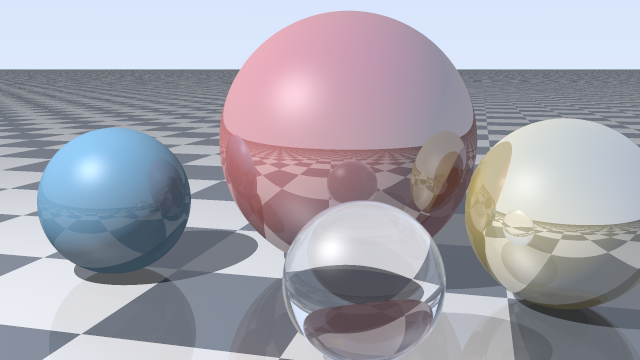
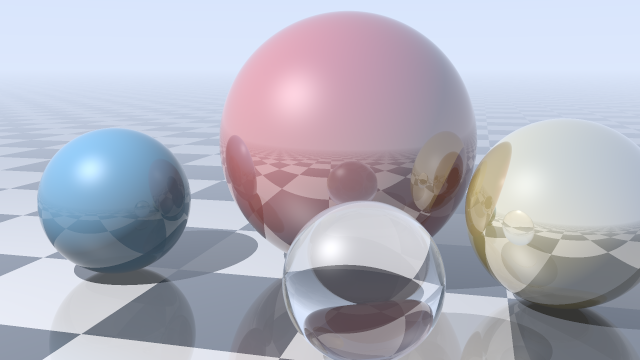
Make reflections stronger at a glancing angle, as on any real surface
The shiny spheres and the floor reflected a fixed share of the light at every angle. Schlick's approximation, already used for the glass, is now a shared function, and each surface's reflect value is its share head on, rising towards all of it at a grazing angle. The far floor now fades into the reflected sky and the spheres' edges turn to mirror, with no extra rays.

The test checks a mirror sphere seen dead centre and near its rim against the exact Schlick share, plus one value worked by hand, which was the only line that caught the fifth power changed to a fourth. Keeping the fixed share also fails it. The README image is re-rendered.

diff --git a/test_raytracer.py b/test_raytracer.py
@@ -112,15 +112,33 @@ def main():
     rt.SCENE.remove(second)
     assert abs(twice - 0.36) < 1e-9, twice
 
-    # A black mirror sphere lit from straight behind, seen dead centre: eye and light point exactly
-    # opposite, which once crashed the highlight. It shows only half the sky straight behind the eye.
+    # Fresnel: the head-on share at a right angle, all of it at a grazing one, and more in between.
+    assert rt.schlick(1.0, 0.25) == 0.25 and rt.schlick(0.0, 0.25) == 1.0
+    assert rt.schlick(1.0, 0.25) < rt.schlick(0.7, 0.25) < rt.schlick(0.2, 0.25) < 1.0
+    # One value worked by hand, so the formula is not only checked against itself: 0.04 + 0.96 * 0.5^5.
+    assert abs(rt.schlick(0.5, 0.04) - 0.07) < 1e-12, rt.schlick(0.5, 0.04)
+    # A black mirror sphere, lit from behind so it shows nothing of its own: hit dead centre, it is
+    # exactly its head-on share of the sky straight behind the eye; hit at its rim, nearly all sky.
     real_scene, real_light = rt.SCENE[:], rt.LIGHT
     rt.SCENE[:] = [rt.Sphere((0.0, 0.0, -5.0), 1.0, rt.BLACK, reflect=0.5)]
     rt.LIGHT = (0.0, 0.0, -20.0)
     try:
-        sky_behind = rt.shade((0.0, 0.0, 100.0), (0.0, 0.0, 1.0))
+        sky_behind = rt.shade((0.0, 0.0, 100.0), (0.0, 0.0, 1.0))  # nothing back there but sky
         centre = rt.shade((0.0, 0.0, 0.0), (0.0, 0.0, -1.0))
         assert all(abs(c - 0.5 * s) < 1e-9 for c, s in zip(centre, sky_behind)), (centre, sky_behind)
+        # Near the rim the ray bounces off at a glancing angle, so the sky it shows is a different
+        # part of the gradient: compare with the sky along the bounce itself.
+        ray = rt.unit((0.0, 0.204, -1.0))  # the tangent is at 1 / sqrt(24), about 0.2041
+        point = rt.mul(ray, rt.SCENE[0].hit((0.0, 0.0, 0.0), ray))
+        normal = rt.SCENE[0].normal_at(point)
+        bounce = rt.unit(rt.sub(ray, rt.mul(normal, 2 * rt.dot(ray, normal))))
+        mirror = rt.SCENE.pop()
+        sky_there = rt.shade((0.0, 0.0, 0.0), bounce)
+        rt.SCENE.append(mirror)
+        share = rt.schlick(-rt.dot(ray, normal), 0.5)
+        rim = rt.shade((0.0, 0.0, 0.0), ray)
+        assert share > 0.9, share
+        assert all(abs(c - share * s) < 1e-9 for c, s in zip(rim, sky_there)), (rim, sky_there, share)
     finally:
         rt.SCENE[:], rt.LIGHT = real_scene, real_light
 

diff --git a/raytracer.py b/raytracer.py
@@ -33,6 +33,11 @@ def refract(direction, normal, eta):
     return add(mul(direction, eta), mul(normal, eta * cos_i - math.sqrt(k)))
 
 
+def schlick(cos, r0):
+    # Schlick's approximation: r0 of the light reflects head on, rising to all of it at a grazing angle.
+    return r0 + (1 - r0) * (1 - cos) ** 5
+
+
 def glass(point, direction, normal, ior):
     # The rays a glass surface sends on, each with its share of the light: a reflection,
     # and unless the angle is too steep, the rest bent through.
@@ -45,8 +50,7 @@ def glass(point, direction, normal, ior):
         return [(1.0, *reflected)]
     # Schlick's approximation of how much reflects, from the angle on the air side.
     cos = -dot(direction if entering else bent, n)
-    r0 = ((ior - 1) / (ior + 1)) ** 2
-    r = r0 + (1 - r0) * (1 - cos) ** 5
+    r = schlick(cos, ((ior - 1) / (ior + 1)) ** 2)
     return [(r, *reflected), (1 - r, add(point, mul(n, -1e-3)), unit(bent))]
 
 
@@ -168,7 +172,9 @@ def shade(origin, direction, depth=0):
     if obj.reflect > 0 and depth < 4:
         bounce = sub(direction, mul(normal, 2 * dot(direction, normal)))
         reflected = shade(add(point, mul(normal, 1e-3)), unit(bounce), depth + 1)
-        colour = add(mul(colour, 1 - obj.reflect), mul(reflected, obj.reflect))
+        # reflect is the share head on; like any real surface, more reflects at a glancing angle.
+        r = schlick(max(0.0, -dot(direction, normal)), obj.reflect)
+        colour = add(mul(colour, 1 - r), mul(reflected, r))
     return colour
 
 

diff --git a/DOCS.md b/DOCS.md
@@ -139,3 +139,26 @@ behind the glass, which is exactly why the shortcut had gone unnoticed; the
 test adds a ball there to see it. What is still missing is caustics, the
 bright spot real glass focuses onto the floor, which would mean following
 light from the lamp rather than back from the eye.
+
+## Every surface is a mirror at a glancing angle
+
+The shiny spheres and the floor used to reflect a fixed share of the light,
+whatever the angle. Real surfaces do not: look along a polished floor and it
+mirrors the sky near the horizon, though straight down it barely reflects at
+all. The glass already used Schlick's approximation for this, so it moved into
+its own `schlick(cos, r0)` and every reflective surface uses it, with its
+`reflect` value now meaning the share head on. The far floor fades into the
+reflected sky and the spheres' edges turn to mirror, with no extra rays.
+
+The test is a black mirror sphere in an empty sky, lit from behind so it shows
+nothing of its own. Seen dead centre it must be exactly its head-on share of the
+sky behind the eye; seen near its rim, exactly Schlick's share of the sky along
+the bounce, over nine tenths. Both compare against `schlick` itself, which would
+pass a wrong formula, so one value is also worked by hand: 0.04 + 0.96 x 0.5^5
+is 0.07. Changing the fifth power to a fourth was caught only by that line.
+
+Writing this test turned up a crash. With the light exactly opposite the eye,
+the halfway vector for the highlight is zero, and normalising it divided by zero.
+Since the glass change it had been worked out even where no light lands; it is
+now computed only where it is used.
+

diff --git a/README.md b/README.md
@@ -25,7 +25,7 @@ routine make the whole picture.
 - Ray and sphere intersection solved as a quadratic, ray and plane as one
   division, with the nearest positive hit winning.
 - Lambert shading, a Blinn-Phong highlight, shadow rays, and reflections up to
-  four bounces deep.
+  four bounces deep, stronger at a glancing angle as on any real surface.
 - Glass: Snell's law for the bend, total internal reflection when the angle
   is too steep to get out, and Schlick's approximation for how much reflects.
 - A checkered floor that is just the parity of the floored coordinates.
